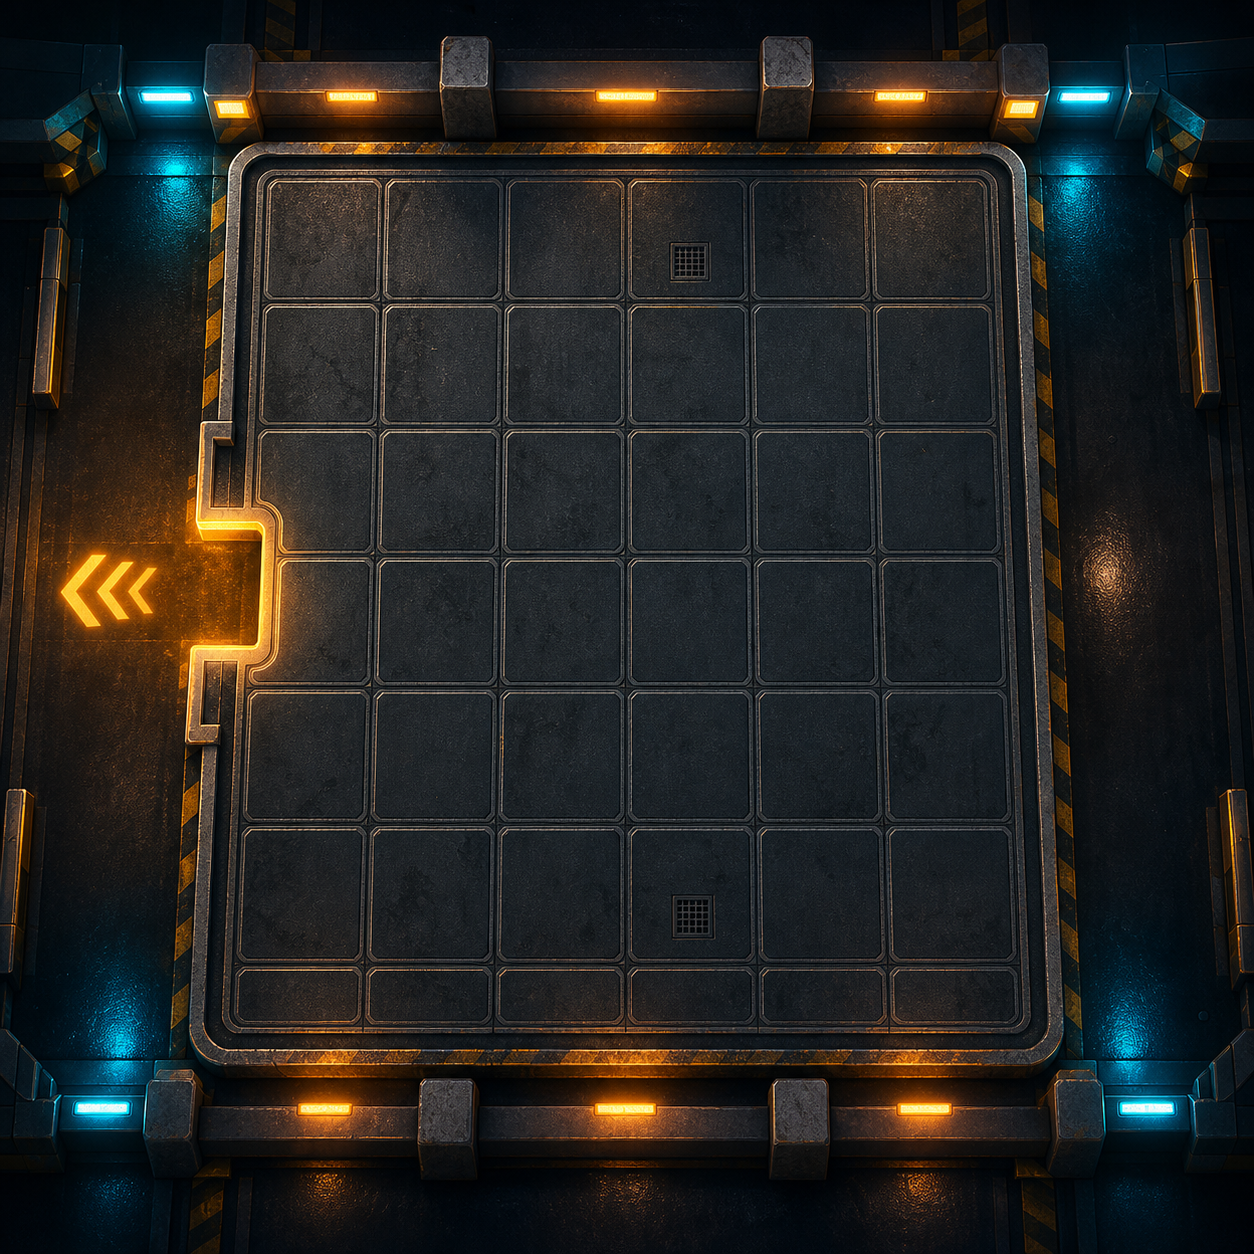
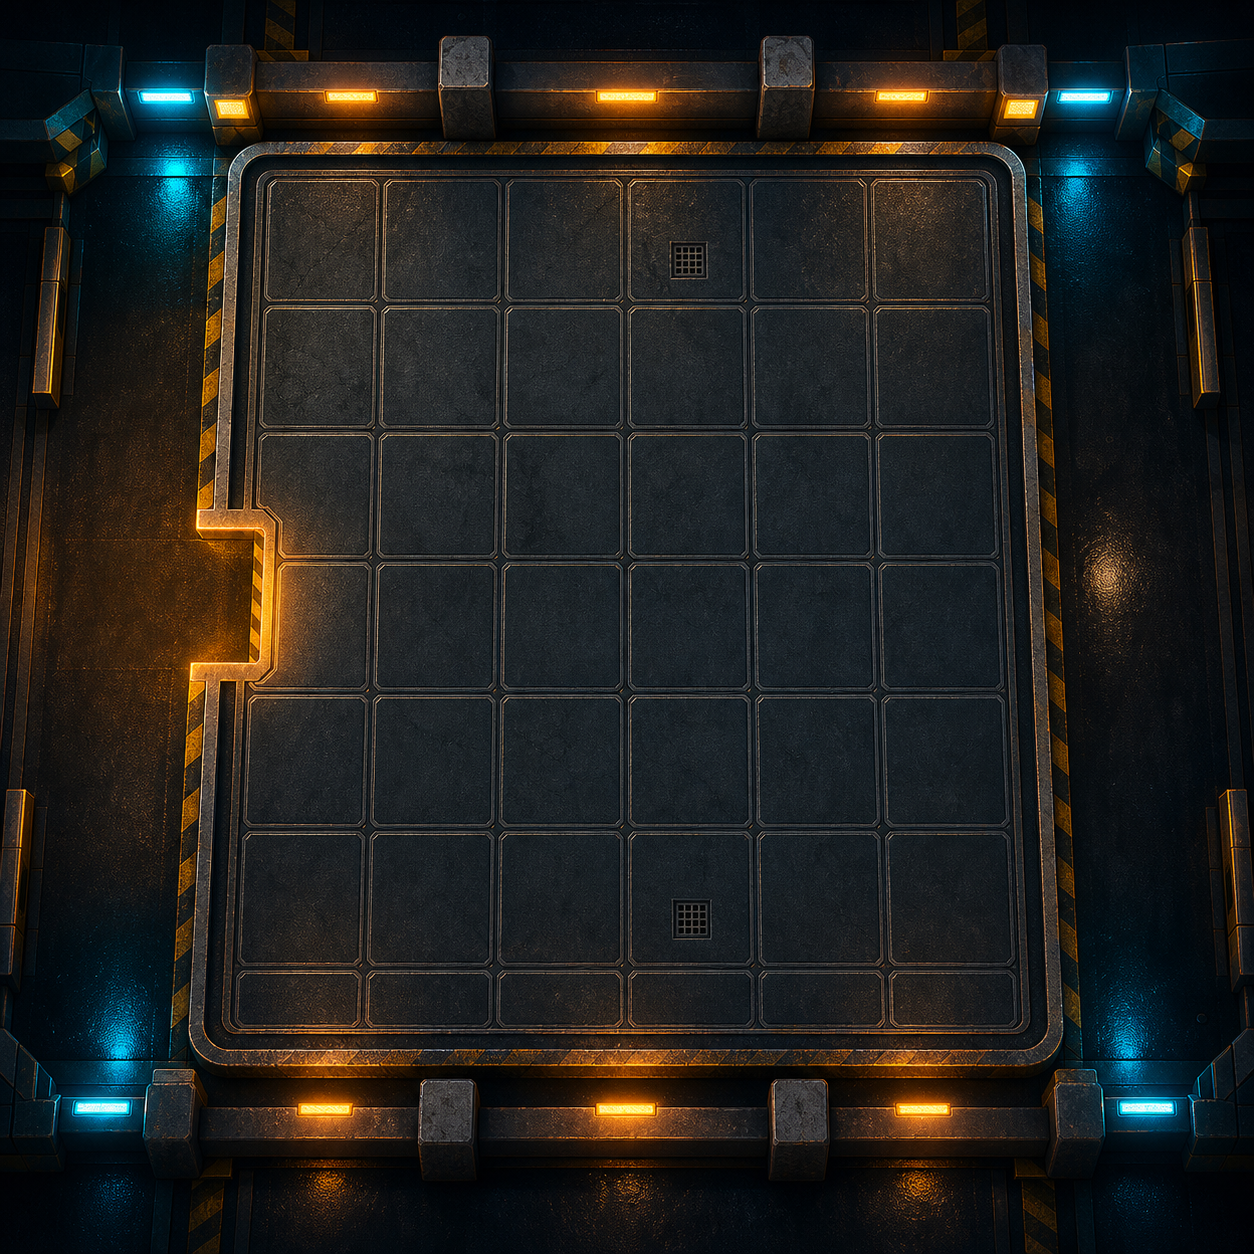
게임 보드 시네마틱 관련 색상 및 투명도 조정

diff --git a/parking-escape/js/main.js b/parking-escape/js/main.js
@@ -425,12 +425,12 @@
       }
 
       g.rect(-this.cell * 0.16, exitGapY, this.cell * 0.2, exitGapH)
-        .fill({ color: 0x07101b, alpha: hasCinematicBoard ? 0.72 : 0.92 });
+        .fill({ color: 0x07101b, alpha: hasCinematicBoard ? 0.82 : 0.92 });
       g.roundRect(-this.cell * 0.86, exitY + this.cell * 0.1, this.cell * 0.72, this.cell * 0.8, this.cell * 0.12)
-        .fill({ color: 0x0d2d35, alpha: hasCinematicBoard ? 0.46 : 0.78 })
-        .stroke({ width: Math.max(2, this.cell * 0.035), color: 0x68f5ff, alpha: hasCinematicBoard ? 0.62 : 0.76 });
-      g.roundRect(-this.cell * 1.08, exitY + this.cell * 0.18, this.cell * 0.96, this.cell * 0.64, this.cell * 0.18)
-        .fill({ color: 0xffb931, alpha: hasCinematicBoard ? 0.12 : 0.08 });
+        .fill({ color: hasCinematicBoard ? 0x1d1405 : 0x0d2d35, alpha: hasCinematicBoard ? 0.24 : 0.78 })
+        .stroke({ width: Math.max(2, this.cell * 0.03), color: hasCinematicBoard ? 0xffc34a : 0x68f5ff, alpha: hasCinematicBoard ? 0.48 : 0.76 });
+      g.roundRect(-this.cell * 1.16, exitY + this.cell * 0.18, this.cell * 1.04, this.cell * 0.64, this.cell * 0.18)
+        .fill({ color: 0xffb931, alpha: hasCinematicBoard ? 0.14 : 0.08 });
       for (let i = 0; i < 3; i++) {
         const cx = -this.cell * (0.52 + i * 0.22);
         g.moveTo(cx + this.cell * 0.08, exitY + this.cell * 0.3)